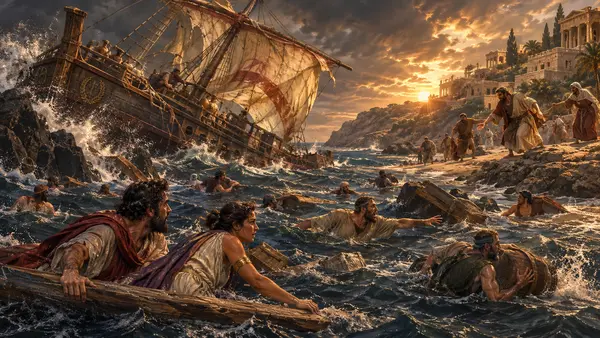
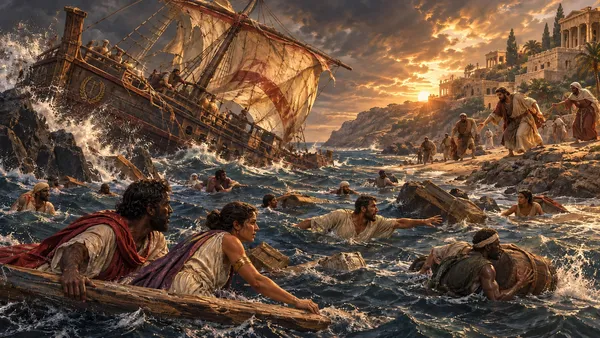
Redo 12 crowd pictures with a range of skin tones; illustration guide

diff --git a/content/source/adventures_assets.py b/content/source/adventures_assets.py
@@ -40,6 +40,39 @@ ASSETS = [
  A("empty_tomb", "The empty tomb", "Mark 16:1-6", "A garden rock-cut tomb with the round stone rolled away, women carrying spices", "Women carrying spices approach a rock-cut tomb whose stone has been rolled away."),
 ]
 
+# 22 Nov 2026: crowd and group scenes regenerated so the people show a range of skin tones,
+# and Jesus is shown with warmer olive-brown skin. Each entry adds to the generation prompt and note.
+MIX = ("the people are of varied Middle Eastern, North African and East African appearance, "
+       "with a clear mix of olive, tan, brown and deep dark-brown skin tones")
+JESUS = "Jesus is shown as a first-century Galilean Jewish man with warm olive-brown skin, dark hair and dark eyes"
+APPEARANCE = " The people's appearance is imagined and deliberately varied."
+DIVERSIFY = {
+    "moses_red_sea": (MIX, " Exodus 12:38 says a 'mixed multitude' went up with Israel."),
+    "solomon_temple": (MIX, ""),
+    "elijah_carmel": (MIX, ""),
+    "esther_king": ("the queen and king have olive skin and their attendants have brown and deep dark-brown skin", " Esther 1:1 describes a kingdom stretching from India to Ethiopia."),
+    "sermon_mount": (JESUS + "; " + MIX, " Luke 6:17 says the crowd included people from the coast of Tyre and Sidon."),
+    "paul_ship": (MIX, " Acts 27 describes 276 people aboard a ship of Alexandria."),
+    "feeding_5000": (JESUS + "; " + MIX, ""),
+    "triumphal_entry": (JESUS + "; " + MIX, ""),
+    "zacchaeus_tree": (JESUS + "; " + MIX, ""),
+    "wedding_cana": (MIX, ""),
+    "last_supper": (JESUS + "; the disciples range from olive and tan to brown and dark-brown skin", ""),
+    "jericho_walls": (MIX, ""),
+}
+
+def diversify(assets):
+    for a in assets:
+        if a["id"] in DIVERSIFY:
+            add, note = DIVERSIFY[a["id"]]
+            body, sep, style = a["prompt"].partition(". " + STYLE[:40])
+            a["prompt"] = body + "; " + add + sep + style
+            a["interpretation_note"] = a["interpretation_note"] + APPEARANCE + note
+    return assets
+
+ASSETS = diversify(ASSETS)
+
+
 ADVENTURES = [
  {"id": "ot-journey", "title": "From Eden to Exile", "testament": "OT", "image_id": "creation",
   "summary": "Walk through the Old Testament: creation, the patriarchs, the exodus, the kingdom and the prophets.",

diff --git a/content/source/assets_2.py b/content/source/assets_2.py
@@ -1,7 +1,7 @@
 # Illustration batch 2 (22 Nov 2026): 20 more scenes for Picture Bible Quiz and Hidden Object.
 # Same style and notes as batch 1. Each prompt asks for the objects named in the KJV passage
 # to be clearly visible and well separated, so hidden-object tap areas do not overlap.
-from adventures_assets import A, NOTE, STYLE
+from adventures_assets import A, NOTE, STYLE, diversify
 
 CLEAR = (" Every object named here must be clearly visible, distinct and well separated from the others; "
          "wide 16:9 composition with the main figures in the middle ground; no modern objects; no text")
@@ -76,3 +76,5 @@ ASSETS_2 = [
    "A shepherd carries a lost sheep on his shoulders across rocky wilderness hills, rejoicing; in the distance the rest of the flock waits in a fold; a shepherd's staff in his hand; a small village of friends and neighbours on the hillside beyond" + CLEAR,
    "A shepherd carries a lost sheep on his shoulders across the hills while the rest of the flock waits in the distance.", 675, note=PARABLE),
 ]
+
+ASSETS_2 = diversify(ASSETS_2)

diff --git a/STATUS.md b/STATUS.md
@@ -213,3 +213,9 @@ Notes:
 - New `public/images/pentecost.webp` (same layout; olive, tan, brown and deep-brown skin tones; flames and Jerusalem window kept).
 - Alt text, prompt and note updated (Acts 2:5-11 names visitors from many nations). Find-it boxes for the flames (14) and Jerusalem window re-marked and visually checked.
 - Live DB updated (question_assets 'pentecost'; extra.boxes for the pentecost hidden scene). Published as deploy 6b034447c7abccd8e396ad3a; index and both webp files md5-verified on mybiblegem.com; 26 live Playwright tests passed; 18 test guests removed (auth.users back to 12).
+
+## 22 Nov 2026 — 12 more pictures redone with a range of skin tones
+- Redone (same layouts): Red Sea, Sermon on the Mount, Feeding the 5,000, Entry into Jerusalem, Zacchaeus, Solomon's temple, Paul's shipwreck, Elijah on Carmel, Wedding at Cana, Last Supper, Jericho, Esther. Jesus has warmer olive-brown skin where he appears.
+- Prompts and notes updated via DIVERSIFY in content/source/adventures_assets.py (applied to assets_2.py too). Find-it boxes unchanged and visually re-checked on every picture.
+- New docs/ILLUSTRATION_GUIDE.md: people the KJV calls Ethiopian (Numbers 12:1, Jeremiah 38:7, Acts 8:27) must be shown with dark skin. No current picture depicts them.
+- Live DB question_assets updated (12 rows). Published deploy 6b0347936607b27cc690213f; index and all 24 webp files md5-verified on mybiblegem.com; 26 live Playwright tests passed; 18 test guests removed (auth.users back to 12).

diff --git a/docs/ILLUSTRATION_GUIDE.md b/docs/ILLUSTRATION_GUIDE.md
@@ -1,0 +1,18 @@
+# Illustration guide: how people are depicted
+
+Owner's rule (22 Nov 2026): people in Bible scenes should show a realistic range of skin tones, and anyone
+the Bible describes as Ethiopian (Cushite) must be clearly shown with dark skin.
+
+## People the KJV describes as Ethiopian (show with dark skin)
+- Moses' wife, "an Ethiopian woman" (Numbers 12:1). Often identified with Zipporah; the app's Who-am-I card covers Zipporah.
+- Ebedmelech the Ethiopian, who rescued Jeremiah (Jeremiah 38:7).
+- The man of Ethiopia, treasurer of Candace, baptised by Philip (Acts 8:27).
+- Jeremiah 13:23 ("Can the Ethiopian change his skin") shows Ethiopians were known for dark skin.
+
+## Probably dark-skinned, but the text doesn't say (use a range of brown skin tones; don't claim certainty in notes)
+- Simeon "that was called Niger" (Acts 13:1); Niger is Latin for "black".
+- Lucius of Cyrene (Acts 13:1) and Simon a Cyrenian (Mark 15:21), both from North Africa.
+
+## Everyone else
+- Israelites, Galileans (including Jesus), Egyptians, Persians and other peoples of the region: olive to brown skin, varied within each crowd.
+- Interpretation notes must say the appearance is imagined, citing a verse when one supports the variety.
